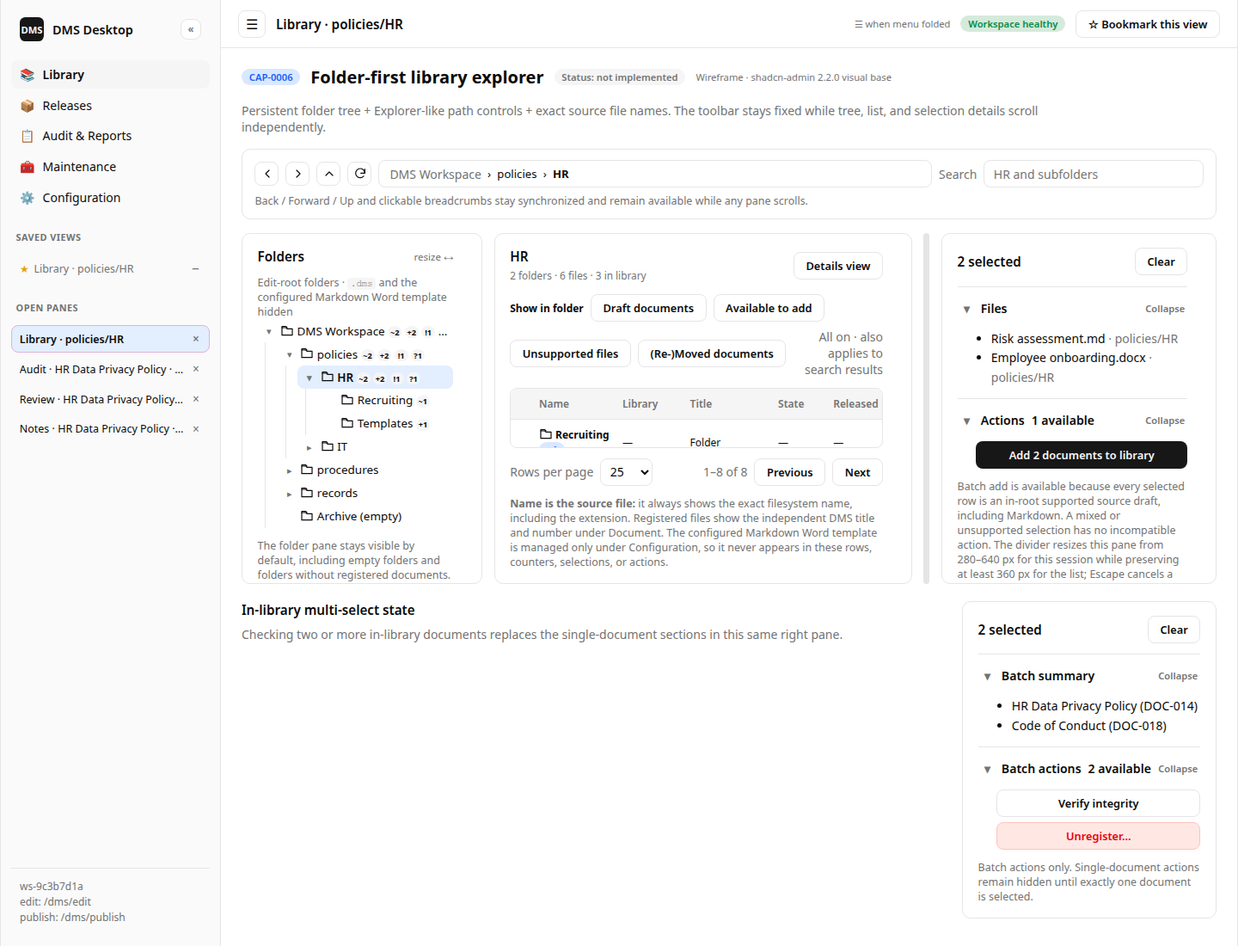
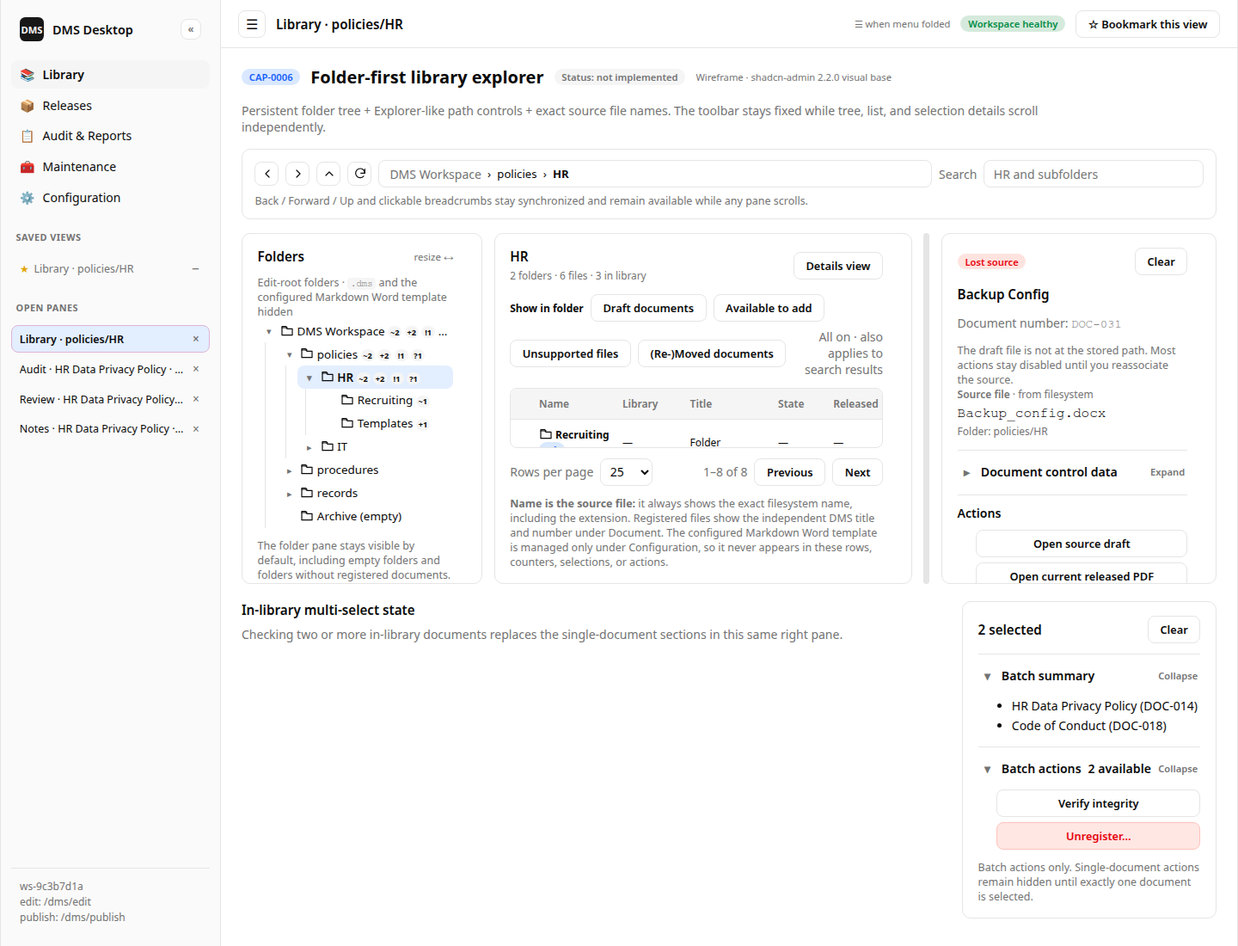
docs(wireframes): pin Actions and Lost-source Browse
Regenerate CAP-0006/0013/0015 screens for pinned Actions and
Lost-source reassociate. Archive CHG-0014 after the workspace gate.

Changed region(s): [[0.75, 0.2473, 0.9688, 0.6182]]

diff --git a/docs/product/wireframes/html/CAP-0006-library-explorer.html b/docs/product/wireframes/html/CAP-0006-library-explorer.html
@@ -116,6 +116,10 @@ code { font-family: ui-monospace, SFMono-Regular, Menlo, monospace; font-size: 0
 .selection-section-title { min-width: 0; }
 .selection-section-meta { color: var(--muted-foreground); font-size: 0.7rem; font-weight: 500; }
 .selection-section-body { margin-top: 0.65rem; padding-left: 1.35rem; }
+.selection-actions-block { margin-top: 0.8rem; border-top: 1px solid var(--border); padding-top: 0.65rem; }
+.selection-actions-block > .selection-section-title { margin: 0; font-size: 0.88rem; font-weight: 600; }
+.directory-field { display: flex; align-items: center; gap: 0.5rem; }
+.directory-field input { min-width: 0; flex: 1; height: 2rem; border: 1px solid var(--input); border-radius: calc(var(--radius) - 2px); padding: 0 0.6rem; font: inherit; }
 .batch-selection-demo { display: grid; grid-template-columns: minmax(0, 1fr) 18.5rem; gap: 0.85rem; align-items: start; margin-top: 0.25rem; }
 .batch-detail-pane { min-height: 0; }
 .selection-bar { display: flex; flex-wrap: nowrap; align-items: center; gap: 0.4rem; margin-bottom: 0.75rem; padding: 0.5rem 0.65rem; border: 1px solid color-mix(in oklch, var(--info) 28%, var(--border)); background: color-mix(in oklch, var(--info) 8%, white); border-radius: calc(var(--radius) - 2px); font-size: 0.8rem; overflow-x: auto; }
@@ -381,24 +385,24 @@ tr:last-child td { border-bottom: 0; }
                 <td><span class="badge ok">released</span></td>
                 <td>V1.1</td>
               </tr>
-              <tr class="selected">
-                <td><span class="check on">☑</span></td>
+              <tr>
+                <td><span class="check">☐</span></td>
                 <td>Risk assessment.md</td>
                 <td><span class="badge warn">Not in library</span></td>
                 <td>Markdown draft</td>
                 <td>—</td>
                 <td>—</td>
               </tr>
-              <tr class="selected">
-                <td><span class="check on">☑</span></td>
+              <tr>
+                <td><span class="check">☐</span></td>
                 <td>Employee onboarding.docx</td>
                 <td><span class="badge warn">Not in library</span></td>
                 <td>Office draft</td>
                 <td>—</td>
                 <td>—</td>
               </tr>
-              <tr>
-                <td><span class="check">☐</span></td>
+              <tr class="selected">
+                <td><span class="check on">☑</span></td>
                 <td style="font-style:italic">Backup_config.docx</td>
                 <td><span class="badge danger">Lost source</span></td>
                 <td style="font-style:italic">Backup Config · DOC-031</td>
@@ -424,18 +428,44 @@ tr:last-child td { border-bottom: 0; }
         <div role="separator" aria-label="Resize document details" aria-orientation="vertical" style="cursor:col-resize;background:var(--border);border-radius:999px" title="Drag or use Left/Right; Escape cancels"></div>
         <aside class="card detail-pane">
           <div class="row between mb">
-            <h3 class="card-title" style="margin:0">2 selected</h3>
-            <button class="btn outline">Clear</button>
-          </div>
-          <details class="selection-section" open>
-            <summary>Files</summary>
-            <div class="selection-section-body"><ul class="list"><li>Risk assessment.md <span class="muted">· policies/HR</span></li><li>Employee onboarding.docx <span class="muted">· policies/HR</span></li></ul></div>
-          </details>
-          <details class="selection-section" open>
-            <summary>Actions <span>1 available</span></summary>
-            <div class="selection-section-body stack-btns"><button class="btn">Add 2 documents to library</button></div>
-          </details>
-          <p class="hint">Batch add is available because every selected row is an in-root supported source draft, including Markdown. A mixed or unsupported selection has no incompatible action. The divider resizes this pane from 280–640 px for this session while preserving at least 360 px for the list; Escape cancels a drag.</p>
+      <div class="row gap-2"><span class="badge danger">Lost source</span></div>
+      <button class="btn outline">Clear</button>
+    </div>
+    <h3 class="card-title" style="margin:0">Backup Config</h3>
+    <p class="muted">Document number: <span class="mono">DOC-031</span></p>
+    <p class="hint">The draft file is not at the stored path. Most actions stay disabled until you reassociate the source.</p>
+    <div class="source-identity-plain">
+      <div class="label">Source file <span style="font-weight:400">· from filesystem</span></div>
+      <div class="mono" style="margin-top:0.3rem">Backup_config.docx</div>
+      <div class="muted" style="font-size:0.75rem;margin-top:0.2rem">Folder: policies/HR</div>
+    </div>
+    <details class="selection-section">
+      <summary><span class="selection-section-title">Document control data</span></summary>
+      <div class="selection-section-body"><p class="hint">Document control and confidentiality changes are unavailable while the source is Lost source.</p></div>
+    </details>
+    <section class="selection-actions-block">
+      <h4 class="selection-section-title">Actions</h4>
+      <div class="selection-section-body stack">
+        <div class="stack-btns">
+          <button class="btn outline" disabled>Open source draft</button>
+          <button class="btn outline">Open current released PDF</button>
+          <button class="btn outline">Open notes</button>
+          <button class="btn outline">Copy permalink</button>
+          <button class="btn danger">Unregister</button>
+        </div>
+        <p class="hint">Choose another supported file under the edit root.</p>
+        <label class="label" for="reassociate-path">Reassociate source</label>
+        <div class="directory-field">
+          <input id="reassociate-path" value="policies/HR/Backup_config.docx" aria-label="New edit-root-relative source path">
+          <button class="btn outline">Browse…</button>
+        </div>
+        <button class="btn">Reassociate source</button>
+      </div>
+    </section>
+    <details class="selection-section">
+      <summary><span class="selection-section-title">Document review schedule</span></summary>
+      <div class="selection-section-body"><p class="hint">Review schedule editing is unavailable while the source is Lost source.</p></div>
+    </details>
         </aside>
       </div>
       <section class="batch-selection-demo">

diff --git a/docs/product/wireframes/html/CAP-0013-library-maintenance.html b/docs/product/wireframes/html/CAP-0013-library-maintenance.html
@@ -116,6 +116,10 @@ code { font-family: ui-monospace, SFMono-Regular, Menlo, monospace; font-size: 0
 .selection-section-title { min-width: 0; }
 .selection-section-meta { color: var(--muted-foreground); font-size: 0.7rem; font-weight: 500; }
 .selection-section-body { margin-top: 0.65rem; padding-left: 1.35rem; }
+.selection-actions-block { margin-top: 0.8rem; border-top: 1px solid var(--border); padding-top: 0.65rem; }
+.selection-actions-block > .selection-section-title { margin: 0; font-size: 0.88rem; font-weight: 600; }
+.directory-field { display: flex; align-items: center; gap: 0.5rem; }
+.directory-field input { min-width: 0; flex: 1; height: 2rem; border: 1px solid var(--input); border-radius: calc(var(--radius) - 2px); padding: 0 0.6rem; font: inherit; }
 .batch-selection-demo { display: grid; grid-template-columns: minmax(0, 1fr) 18.5rem; gap: 0.85rem; align-items: start; margin-top: 0.25rem; }
 .batch-detail-pane { min-height: 0; }
 .selection-bar { display: flex; flex-wrap: nowrap; align-items: center; gap: 0.4rem; margin-bottom: 0.75rem; padding: 0.5rem 0.65rem; border: 1px solid color-mix(in oklch, var(--info) 28%, var(--border)); background: color-mix(in oklch, var(--info) 8%, white); border-radius: calc(var(--radius) - 2px); font-size: 0.8rem; overflow-x: auto; }
@@ -275,12 +279,12 @@ tr:last-child td { border-bottom: 0; }
     <span class="muted">4 matching findings</span>
   </div><div class="table-wrap"><table>
     <thead><tr><th>Title</th><th>Old path</th><th>Status</th><th>Suggestion</th></tr></thead>
-    <tbody><tr><td>Acceptable Use</td><td>policies/IT/AUP.docx</td><td><span class="badge warn">renamed</span></td><td>Match: policies/IT/AUP-v2.docx</td></tr><tr><td>Backup Config</td><td>policies/IT/Backup.docx</td><td><span class="badge danger">Lost source</span></td><td>Reassociate source… · target must leave library if already registered</td></tr><tr><td>Vendor Onboarding</td><td>procedures/Onboarding.docx</td><td><span class="badge info">candidate</span></td><td>Match by last digest</td></tr><tr><td>Office lock ignored</td><td>~$AUP.docx</td><td><span class="badge muted">ignored</span></td><td>Lock/temp sidecar — never a candidate</td></tr></tbody>
+    <tbody><tr><td>Acceptable Use</td><td>policies/IT/AUP.docx</td><td><span class="badge warn">renamed</span></td><td>Match: policies/IT/AUP-v2.docx</td></tr><tr><td>Backup Config</td><td>policies/IT/Backup.docx</td><td><span class="badge danger">Lost source</span></td><td>Reassociate from Library Actions · desktop refuses a registered target</td></tr><tr><td>Vendor Onboarding</td><td>procedures/Onboarding.docx</td><td><span class="badge info">candidate</span></td><td>Match by last digest</td></tr><tr><td>Office lock ignored</td><td>~$AUP.docx</td><td><span class="badge muted">ignored</span></td><td>Lock/temp sidecar — never a candidate</td></tr></tbody>
   </table></div><div class="row between" style="margin-top:0.75rem;flex-wrap:wrap;gap:0.75rem">
     <label class="muted" style="display:flex;align-items:center;gap:0.45rem">Rows per page <select aria-label="Table rows per page" style="height:2rem;border:1px solid var(--input);border-radius:calc(var(--radius) - 2px);padding:0 0.45rem;font:inherit;color:var(--foreground);background:var(--background)"><option>10</option><option selected>25</option><option>50</option><option>100</option></select></label>
     <div class="row gap-2"><span class="muted">1–4 of 4</span><button class="btn outline" disabled>Previous</button><button class="btn outline" disabled>Next</button></div>
   </div>
-          <p class="hint">Reassociating onto a path that is already a library document merges audit history only when the target's events are entirely later with no timestamp overlap; the target then leaves the library.</p>
+          <p class="hint">Desktop Actions refuse an already-registered target. Core and CLI still absorb when the target's events are entirely later with no timestamp overlap; the target then leaves the library.</p>
         </section>
       </div>
     </main>

diff --git a/docs/product/wireframes/html/CAP-0015-document-control-data.html b/docs/product/wireframes/html/CAP-0015-document-control-data.html
@@ -116,6 +116,10 @@ code { font-family: ui-monospace, SFMono-Regular, Menlo, monospace; font-size: 0
 .selection-section-title { min-width: 0; }
 .selection-section-meta { color: var(--muted-foreground); font-size: 0.7rem; font-weight: 500; }
 .selection-section-body { margin-top: 0.65rem; padding-left: 1.35rem; }
+.selection-actions-block { margin-top: 0.8rem; border-top: 1px solid var(--border); padding-top: 0.65rem; }
+.selection-actions-block > .selection-section-title { margin: 0; font-size: 0.88rem; font-weight: 600; }
+.directory-field { display: flex; align-items: center; gap: 0.5rem; }
+.directory-field input { min-width: 0; flex: 1; height: 2rem; border: 1px solid var(--input); border-radius: calc(var(--radius) - 2px); padding: 0 0.6rem; font: inherit; }
 .batch-selection-demo { display: grid; grid-template-columns: minmax(0, 1fr) 18.5rem; gap: 0.85rem; align-items: start; margin-top: 0.25rem; }
 .batch-detail-pane { min-height: 0; }
 .selection-bar { display: flex; flex-wrap: nowrap; align-items: center; gap: 0.4rem; margin-bottom: 0.75rem; padding: 0.5rem 0.65rem; border: 1px solid color-mix(in oklch, var(--info) 28%, var(--border)); background: color-mix(in oklch, var(--info) 8%, white); border-radius: calc(var(--radius) - 2px); font-size: 0.8rem; overflow-x: auto; }
@@ -351,6 +355,17 @@ tr:last-child td { border-bottom: 0; }
         <button class="btn">Save document control</button>
       </div></div>
     </details>
+    <section class="selection-actions-block">
+      <h4 class="selection-section-title">Actions</h4>
+      <div class="selection-section-body stack-btns">
+        <button class="btn outline">Open source draft</button>
+        <button class="btn outline">Open current released PDF</button>
+        <button class="btn outline">Open notes</button>
+        <button class="btn outline">Evaluate changes with Claude</button>
+        <button class="btn outline">Copy permalink</button>
+        <button class="btn danger">Unregister</button>
+      </div>
+    </section>
     <details class="selection-section" open>
       <summary><span class="selection-section-title">Document review schedule</span><span class="selection-section-meta">Mutable</span></summary>
       <div class="selection-section-body"><dl class="kv"><div><dt>Resolved interval</dt><dd>12 months (workspace default)</dd></div><div><dt>Next review due</dt><dd>2026-08-01</dd></div><div><dt>Exemption</dt><dd>None</dd></div></dl><p class="hint">Due date = current release effective date + resolved interval. Schedule changes do not invalidate content approval.</p>
@@ -358,18 +373,6 @@ tr:last-child td { border-bottom: 0; }
         <label class="label">Schedule <select><option selected>Use workspace interval (12 months)</option><option>Document interval override</option><option>Exempt document</option></select></label>
         <button class="btn outline" disabled>Update review schedule</button>
       </div></div>
-    </details>
-    <details class="selection-section" open>
-      <summary><span class="selection-section-title">Actions</span></summary>
-      <div class="selection-section-body stack-btns">
-        <button class="btn outline">Open source draft</button>
-        <button class="btn outline">Open current released PDF</button>
-        <button class="btn outline">Open notes</button>
-        <button class="btn outline">Evaluate changes with Claude</button>
-        <button class="btn outline">Copy permalink</button>
-        <button class="btn outline">Reassociate source</button>
-        <button class="btn danger">Unregister</button>
-      </div>
     </details>
     <details class="selection-section" open>
       <summary><span class="selection-section-title">Revision cycle</span></summary>

diff --git a/docs/product/wireframes/html/CAP-0001-local-folder-dms.html b/docs/product/wireframes/html/CAP-0001-local-folder-dms.html
@@ -130,6 +130,10 @@ code { font-family: ui-monospace, SFMono-Regular, Menlo, monospace; font-size: 0
 .selection-section-title { min-width: 0; }
 .selection-section-meta { color: var(--muted-foreground); font-size: 0.7rem; font-weight: 500; }
 .selection-section-body { margin-top: 0.65rem; padding-left: 1.35rem; }
+.selection-actions-block { margin-top: 0.8rem; border-top: 1px solid var(--border); padding-top: 0.65rem; }
+.selection-actions-block > .selection-section-title { margin: 0; font-size: 0.88rem; font-weight: 600; }
+.directory-field { display: flex; align-items: center; gap: 0.5rem; }
+.directory-field input { min-width: 0; flex: 1; height: 2rem; border: 1px solid var(--input); border-radius: calc(var(--radius) - 2px); padding: 0 0.6rem; font: inherit; }
 .batch-selection-demo { display: grid; grid-template-columns: minmax(0, 1fr) 18.5rem; gap: 0.85rem; align-items: start; margin-top: 0.25rem; }
 .batch-detail-pane { min-height: 0; }
 .selection-bar { display: flex; flex-wrap: nowrap; align-items: center; gap: 0.4rem; margin-bottom: 0.75rem; padding: 0.5rem 0.65rem; border: 1px solid color-mix(in oklch, var(--info) 28%, var(--border)); background: color-mix(in oklch, var(--info) 8%, white); border-radius: calc(var(--radius) - 2px); font-size: 0.8rem; overflow-x: auto; }

diff --git a/docs/product/wireframes/html/CAP-0002-document-lifecycle.html b/docs/product/wireframes/html/CAP-0002-document-lifecycle.html
@@ -116,6 +116,10 @@ code { font-family: ui-monospace, SFMono-Regular, Menlo, monospace; font-size: 0
 .selection-section-title { min-width: 0; }
 .selection-section-meta { color: var(--muted-foreground); font-size: 0.7rem; font-weight: 500; }
 .selection-section-body { margin-top: 0.65rem; padding-left: 1.35rem; }
+.selection-actions-block { margin-top: 0.8rem; border-top: 1px solid var(--border); padding-top: 0.65rem; }
+.selection-actions-block > .selection-section-title { margin: 0; font-size: 0.88rem; font-weight: 600; }
+.directory-field { display: flex; align-items: center; gap: 0.5rem; }
+.directory-field input { min-width: 0; flex: 1; height: 2rem; border: 1px solid var(--input); border-radius: calc(var(--radius) - 2px); padding: 0 0.6rem; font: inherit; }
 .batch-selection-demo { display: grid; grid-template-columns: minmax(0, 1fr) 18.5rem; gap: 0.85rem; align-items: start; margin-top: 0.25rem; }
 .batch-detail-pane { min-height: 0; }
 .selection-bar { display: flex; flex-wrap: nowrap; align-items: center; gap: 0.4rem; margin-bottom: 0.75rem; padding: 0.5rem 0.65rem; border: 1px solid color-mix(in oklch, var(--info) 28%, var(--border)); background: color-mix(in oklch, var(--info) 8%, white); border-radius: calc(var(--radius) - 2px); font-size: 0.8rem; overflow-x: auto; }

diff --git a/docs/product/wireframes/html/CAP-0003-document-notes.html b/docs/product/wireframes/html/CAP-0003-document-notes.html
@@ -116,6 +116,10 @@ code { font-family: ui-monospace, SFMono-Regular, Menlo, monospace; font-size: 0
 .selection-section-title { min-width: 0; }
 .selection-section-meta { color: var(--muted-foreground); font-size: 0.7rem; font-weight: 500; }
 .selection-section-body { margin-top: 0.65rem; padding-left: 1.35rem; }
+.selection-actions-block { margin-top: 0.8rem; border-top: 1px solid var(--border); padding-top: 0.65rem; }
+.selection-actions-block > .selection-section-title { margin: 0; font-size: 0.88rem; font-weight: 600; }
+.directory-field { display: flex; align-items: center; gap: 0.5rem; }
+.directory-field input { min-width: 0; flex: 1; height: 2rem; border: 1px solid var(--input); border-radius: calc(var(--radius) - 2px); padding: 0 0.6rem; font: inherit; }
 .batch-selection-demo { display: grid; grid-template-columns: minmax(0, 1fr) 18.5rem; gap: 0.85rem; align-items: start; margin-top: 0.25rem; }
 .batch-detail-pane { min-height: 0; }
 .selection-bar { display: flex; flex-wrap: nowrap; align-items: center; gap: 0.4rem; margin-bottom: 0.75rem; padding: 0.5rem 0.65rem; border: 1px solid color-mix(in oklch, var(--info) 28%, var(--border)); background: color-mix(in oklch, var(--info) 8%, white); border-radius: calc(var(--radius) - 2px); font-size: 0.8rem; overflow-x: auto; }

diff --git a/docs/product/wireframes/html/CAP-0004-release-integrity.html b/docs/product/wireframes/html/CAP-0004-release-integrity.html
@@ -116,6 +116,10 @@ code { font-family: ui-monospace, SFMono-Regular, Menlo, monospace; font-size: 0
 .selection-section-title { min-width: 0; }
 .selection-section-meta { color: var(--muted-foreground); font-size: 0.7rem; font-weight: 500; }
 .selection-section-body { margin-top: 0.65rem; padding-left: 1.35rem; }
+.selection-actions-block { margin-top: 0.8rem; border-top: 1px solid var(--border); padding-top: 0.65rem; }
+.selection-actions-block > .selection-section-title { margin: 0; font-size: 0.88rem; font-weight: 600; }
+.directory-field { display: flex; align-items: center; gap: 0.5rem; }
+.directory-field input { min-width: 0; flex: 1; height: 2rem; border: 1px solid var(--input); border-radius: calc(var(--radius) - 2px); padding: 0 0.6rem; font: inherit; }
 .batch-selection-demo { display: grid; grid-template-columns: minmax(0, 1fr) 18.5rem; gap: 0.85rem; align-items: start; margin-top: 0.25rem; }
 .batch-detail-pane { min-height: 0; }
 .selection-bar { display: flex; flex-wrap: nowrap; align-items: center; gap: 0.4rem; margin-bottom: 0.75rem; padding: 0.5rem 0.65rem; border: 1px solid color-mix(in oklch, var(--info) 28%, var(--border)); background: color-mix(in oklch, var(--info) 8%, white); border-radius: calc(var(--radius) - 2px); font-size: 0.8rem; overflow-x: auto; }

diff --git a/docs/product/wireframes/html/CAP-0005-desktop-shell.html b/docs/product/wireframes/html/CAP-0005-desktop-shell.html
@@ -116,6 +116,10 @@ code { font-family: ui-monospace, SFMono-Regular, Menlo, monospace; font-size: 0
 .selection-section-title { min-width: 0; }
 .selection-section-meta { color: var(--muted-foreground); font-size: 0.7rem; font-weight: 500; }
 .selection-section-body { margin-top: 0.65rem; padding-left: 1.35rem; }
+.selection-actions-block { margin-top: 0.8rem; border-top: 1px solid var(--border); padding-top: 0.65rem; }
+.selection-actions-block > .selection-section-title { margin: 0; font-size: 0.88rem; font-weight: 600; }
+.directory-field { display: flex; align-items: center; gap: 0.5rem; }
+.directory-field input { min-width: 0; flex: 1; height: 2rem; border: 1px solid var(--input); border-radius: calc(var(--radius) - 2px); padding: 0 0.6rem; font: inherit; }
 .batch-selection-demo { display: grid; grid-template-columns: minmax(0, 1fr) 18.5rem; gap: 0.85rem; align-items: start; margin-top: 0.25rem; }
 .batch-detail-pane { min-height: 0; }
 .selection-bar { display: flex; flex-wrap: nowrap; align-items: center; gap: 0.4rem; margin-bottom: 0.75rem; padding: 0.5rem 0.65rem; border: 1px solid color-mix(in oklch, var(--info) 28%, var(--border)); background: color-mix(in oklch, var(--info) 8%, white); border-radius: calc(var(--radius) - 2px); font-size: 0.8rem; overflow-x: auto; }

diff --git a/docs/product/wireframes/html/CAP-0007-draft-pdf-export.html b/docs/product/wireframes/html/CAP-0007-draft-pdf-export.html
@@ -116,6 +116,10 @@ code { font-family: ui-monospace, SFMono-Regular, Menlo, monospace; font-size: 0
 .selection-section-title { min-width: 0; }
 .selection-section-meta { color: var(--muted-foreground); font-size: 0.7rem; font-weight: 500; }
 .selection-section-body { margin-top: 0.65rem; padding-left: 1.35rem; }
+.selection-actions-block { margin-top: 0.8rem; border-top: 1px solid var(--border); padding-top: 0.65rem; }
+.selection-actions-block > .selection-section-title { margin: 0; font-size: 0.88rem; font-weight: 600; }
+.directory-field { display: flex; align-items: center; gap: 0.5rem; }
+.directory-field input { min-width: 0; flex: 1; height: 2rem; border: 1px solid var(--input); border-radius: calc(var(--radius) - 2px); padding: 0 0.6rem; font: inherit; }
 .batch-selection-demo { display: grid; grid-template-columns: minmax(0, 1fr) 18.5rem; gap: 0.85rem; align-items: start; margin-top: 0.25rem; }
 .batch-detail-pane { min-height: 0; }
 .selection-bar { display: flex; flex-wrap: nowrap; align-items: center; gap: 0.4rem; margin-bottom: 0.75rem; padding: 0.5rem 0.65rem; border: 1px solid color-mix(in oklch, var(--info) 28%, var(--border)); background: color-mix(in oklch, var(--info) 8%, white); border-radius: calc(var(--radius) - 2px); font-size: 0.8rem; overflow-x: auto; }

diff --git a/docs/product/wireframes/html/CAP-0008-confidentiality-classification.html b/docs/product/wireframes/html/CAP-0008-confidentiality-classification.html
@@ -130,6 +130,10 @@ code { font-family: ui-monospace, SFMono-Regular, Menlo, monospace; font-size: 0
 .selection-section-title { min-width: 0; }
 .selection-section-meta { color: var(--muted-foreground); font-size: 0.7rem; font-weight: 500; }
 .selection-section-body { margin-top: 0.65rem; padding-left: 1.35rem; }
+.selection-actions-block { margin-top: 0.8rem; border-top: 1px solid var(--border); padding-top: 0.65rem; }
+.selection-actions-block > .selection-section-title { margin: 0; font-size: 0.88rem; font-weight: 600; }
+.directory-field { display: flex; align-items: center; gap: 0.5rem; }
+.directory-field input { min-width: 0; flex: 1; height: 2rem; border: 1px solid var(--input); border-radius: calc(var(--radius) - 2px); padding: 0 0.6rem; font: inherit; }
 .batch-selection-demo { display: grid; grid-template-columns: minmax(0, 1fr) 18.5rem; gap: 0.85rem; align-items: start; margin-top: 0.25rem; }
 .batch-detail-pane { min-height: 0; }
 .selection-bar { display: flex; flex-wrap: nowrap; align-items: center; gap: 0.4rem; margin-bottom: 0.75rem; padding: 0.5rem 0.65rem; border: 1px solid color-mix(in oklch, var(--info) 28%, var(--border)); background: color-mix(in oklch, var(--info) 8%, white); border-radius: calc(var(--radius) - 2px); font-size: 0.8rem; overflow-x: auto; }

diff --git a/docs/product/wireframes/html/CAP-0009-release-editor.html b/docs/product/wireframes/html/CAP-0009-release-editor.html
@@ -116,6 +116,10 @@ code { font-family: ui-monospace, SFMono-Regular, Menlo, monospace; font-size: 0
 .selection-section-title { min-width: 0; }
 .selection-section-meta { color: var(--muted-foreground); font-size: 0.7rem; font-weight: 500; }
 .selection-section-body { margin-top: 0.65rem; padding-left: 1.35rem; }
+.selection-actions-block { margin-top: 0.8rem; border-top: 1px solid var(--border); padding-top: 0.65rem; }
+.selection-actions-block > .selection-section-title { margin: 0; font-size: 0.88rem; font-weight: 600; }
+.directory-field { display: flex; align-items: center; gap: 0.5rem; }
+.directory-field input { min-width: 0; flex: 1; height: 2rem; border: 1px solid var(--input); border-radius: calc(var(--radius) - 2px); padding: 0 0.6rem; font: inherit; }
 .batch-selection-demo { display: grid; grid-template-columns: minmax(0, 1fr) 18.5rem; gap: 0.85rem; align-items: start; margin-top: 0.25rem; }
 .batch-detail-pane { min-height: 0; }
 .selection-bar { display: flex; flex-wrap: nowrap; align-items: center; gap: 0.4rem; margin-bottom: 0.75rem; padding: 0.5rem 0.65rem; border: 1px solid color-mix(in oklch, var(--info) 28%, var(--border)); background: color-mix(in oklch, var(--info) 8%, white); border-radius: calc(var(--radius) - 2px); font-size: 0.8rem; overflow-x: auto; }

diff --git a/docs/product/wireframes/html/CAP-0010-notification-transport.html b/docs/product/wireframes/html/CAP-0010-notification-transport.html
@@ -130,6 +130,10 @@ code { font-family: ui-monospace, SFMono-Regular, Menlo, monospace; font-size: 0
 .selection-section-title { min-width: 0; }
 .selection-section-meta { color: var(--muted-foreground); font-size: 0.7rem; font-weight: 500; }
 .selection-section-body { margin-top: 0.65rem; padding-left: 1.35rem; }
+.selection-actions-block { margin-top: 0.8rem; border-top: 1px solid var(--border); padding-top: 0.65rem; }
+.selection-actions-block > .selection-section-title { margin: 0; font-size: 0.88rem; font-weight: 600; }
+.directory-field { display: flex; align-items: center; gap: 0.5rem; }
+.directory-field input { min-width: 0; flex: 1; height: 2rem; border: 1px solid var(--input); border-radius: calc(var(--radius) - 2px); padding: 0 0.6rem; font: inherit; }
 .batch-selection-demo { display: grid; grid-template-columns: minmax(0, 1fr) 18.5rem; gap: 0.85rem; align-items: start; margin-top: 0.25rem; }
 .batch-detail-pane { min-height: 0; }
 .selection-bar { display: flex; flex-wrap: nowrap; align-items: center; gap: 0.4rem; margin-bottom: 0.75rem; padding: 0.5rem 0.65rem; border: 1px solid color-mix(in oklch, var(--info) 28%, var(--border)); background: color-mix(in oklch, var(--info) 8%, white); border-radius: calc(var(--radius) - 2px); font-size: 0.8rem; overflow-x: auto; }
